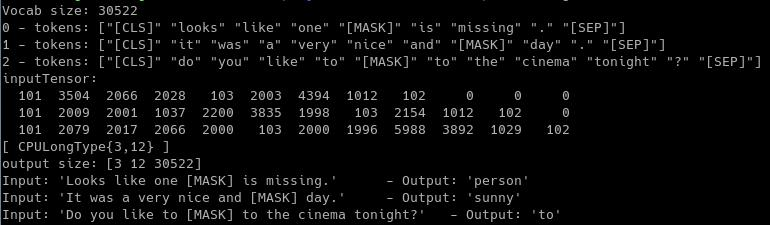
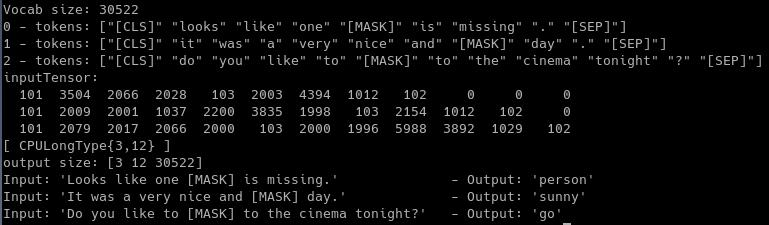
fixed bert/example output image

diff --git a/example/bert/main.go b/example/bert/main.go
@@ -139,19 +139,19 @@ func bertForMaskedLM() {
 
 	index1 := output.MustGet(0).MustGet(4).MustShallowClone().MustArgmax([]int64{0}, false, false).Int64Values()[0]
 	index2 := output.MustGet(1).MustGet(7).MustArgmax([]int64{0}, false, false).Int64Values()[0]
-	index3 := output.MustGet(2).MustGet(4).MustArgmax([]int64{0}, false, false).Int64Values()[0]
+	index3 := output.MustGet(2).MustGet(5).MustArgmax([]int64{0}, false, false).Int64Values()[0]
 
 	word1, ok := tk.IdToToken(int(index1))
 	if !ok {
 		fmt.Printf("Cannot find a corresponding word for the given id (%v) in vocab.\n", index1)
 	}
-	fmt.Printf("Input: '%v' \t- Output: '%v'\n", sentence1, word1)
+	fmt.Printf("Input: '%v' \t\t- Output: '%v'\n", sentence1, word1)
 
 	word2, ok := tk.IdToToken(int(index2))
 	if !ok {
 		fmt.Printf("Cannot find a corresponding word for the given id (%v) in vocab.\n", index2)
 	}
-	fmt.Printf("Input: '%v' \t- Output: '%v'\n", sentence2, word2)
+	fmt.Printf("Input: '%v' \t\t- Output: '%v'\n", sentence2, word2)
 
 	word3, ok := tk.IdToToken(int(index3))
 	if !ok {
